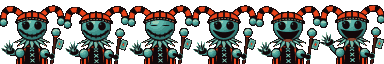
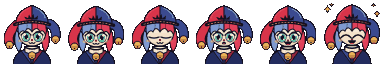
fix: jester model

diff --git a/scripts/make-gm.py b/scripts/make-gm.py
@@ -1,4 +1,4 @@
-"""Sprite Game Master: JESTER setengah badan (chibi), pixel art 64x64 per frame.
+"""Sprite Game Master: JESTER chibi setengah badan (mata anime terbuka, topi & rambut dua warna), pixel art 64x64 per frame.
 Digambar sebagai vektor (assets-src/gm.svg = frame 0) -> diturunkan ke 64x64 -> palet bersama untuk semua frame.
 Sheet: 6 frame -> idle0, idle1, blink, talk0, talk1, cheer. Juga membuat ikon pesan.
 Jalankan: python3 scripts/make-gm.py   (butuh playwright + pillow)"""
@@ -10,116 +10,108 @@ ROOT = os.path.dirname(os.path.dirname(os.path.abspath(__file__)))
 OUT = f'{ROOT}/public/ui'
 os.makedirs(OUT, exist_ok=True)
 F = 64          # ukuran frame (px)
-COLORS = 30     # jumlah warna palet
+COLORS = 48     # jumlah warna palet
 
-TEAL, TEAL_D, TEAL_L = '#3f9a92', '#27706c', '#8fe0d0'
-CREAM = '#f2dcae'
-RED, RED_D = '#e8431a', '#a82a10'
-BLK = '#12080a'
-
-
-def petals(cy=158):
-    """Kerah ruffle besar: kelopak teal yang menyebar dari leher."""
-    out = []
-    cx = 128
-    for k, ang in enumerate([-78, -52, -26, 0, 26, 52, 78]):
-        a = math.radians(ang)
-        tipx, tipy = cx + math.sin(a) * 74, cy + math.cos(a) * 34 + 6
-        b1, b2 = math.radians(ang - 21), math.radians(ang + 21)
-        p1 = (cx + math.sin(b1) * 30, cy + math.cos(b1) * 12 - 6)
-        p2 = (cx + math.sin(b2) * 30, cy + math.cos(b2) * 12 - 6)
-        mid = (cx + math.sin(a) * 50, cy + math.cos(a) * 22)
-        col = TEAL if k % 2 == 0 else '#4eb0a6'
-        out.append(f'<path d="M{p1[0]:.1f} {p1[1]:.1f} Q{mid[0]-math.cos(a)*10:.1f} {mid[1]+math.sin(a)*4:.1f} {tipx:.1f} {tipy:.1f} Q{mid[0]+math.cos(a)*10:.1f} {mid[1]-math.sin(a)*4:.1f} {p2[0]:.1f} {p2[1]:.1f} Z" fill="{col}" stroke="{BLK}" stroke-width="3.5" stroke-linejoin="round"/>')
-        out.append(f'<path d="M{(p1[0]+p2[0])/2:.1f} {(p1[1]+p2[1])/2:.1f} L{tipx*0.92+cx*0.08:.1f} {tipy*0.92+cy*0.08:.1f}" stroke="{CREAM}" stroke-width="2.4" stroke-linecap="round" opacity=".85"/>')
-    return ''.join(out)
+RED, RED_D, RED_L = '#d8344a', '#9c1f38', '#f06a78'
+BLU, BLU_D, BLU_L = '#3b4a8f', '#232c5e', '#7f93d6'
+HAIR_B, HAIR_R = '#7f9ad0', '#e0405a'
+SKIN, SKIN_S = '#fff1de', '#f3d9bd'
+GOLD, GOLD_D, GOLD_L = '#e0a43a', '#a8691e', '#ffe08a'
+BLK = '#14101f'
+IRIS, IRIS_L = '#2fa58a', '#9bf0d0'
 
 
-def hand(rot, spread):
-    fingers = ''.join(
-        f'<path d="M-5 0 Q{-3+a*0.05:.1f} -22 0 -{ln} Q{3+a*0.05:.1f} -22 5 0Z" fill="{BLK}" stroke="{TEAL_L}" stroke-width="1.6" stroke-linejoin="round" transform="rotate({a+rot*0})"/>'
-        for a, ln in [(-46 - spread, 30), (-22 - spread / 2, 38), (3 + spread / 3, 40), (28 + spread, 34)])
-    return (f'<ellipse cx="0" cy="4" rx="20" ry="15" fill="{BLK}" stroke="{TEAL_L}" stroke-width="1.8"/>'
-            f'<path d="M-16 8 Q-30 2 -34 -10 Q-26 -10 -16 -2Z" fill="{BLK}" stroke="{TEAL_L}" stroke-width="1.6" stroke-linejoin="round"/>'
-            + fingers)
+def bell(x, y, r=14, ph=0):
+    return (f'<circle cx="{x}" cy="{y+ph}" r="{r}" fill="{GOLD}" stroke="{BLK}" stroke-width="3.5"/>'
+            f'<path d="M{x-r*0.55:.1f} {y+ph-r*0.3:.1f} Q{x:.1f} {y+ph-r*0.9:.1f} {x+r*0.5:.1f} {y+ph-r*0.4:.1f}" stroke="{GOLD_L}" stroke-width="3" fill="none" stroke-linecap="round"/>'
+            f'<path d="M{x-r*0.9:.1f} {y+ph+r*0.15:.1f} L{x+r*0.9:.1f} {y+ph+r*0.15:.1f}" stroke="{GOLD_D}" stroke-width="2.6"/>'
+            f'<circle cx="{x}" cy="{y+ph+r*0.5:.1f}" r="2.6" fill="{BLK}"/>')
 
 
-def svg(bob=0, sway=0, blink=False, mouth='smile', wave=0, hand_lift=0, cheer=False):
-    horn_l = f'M92 78 C 58 34, 12 34, 14 {92+sway}'
-    horn_r = f'M164 78 C 198 30, 246 36, 244 {88-sway}'
-    eye_ry = 2 if blink else 17
+def sparkle(x, y, s, col=GOLD):
+    return f'<path d="M{x} {y-s} Q{x+s*0.18} {y-s*0.18} {x+s} {y} Q{x+s*0.18} {y+s*0.18} {x} {y+s} Q{x-s*0.18} {y+s*0.18} {x-s} {y} Q{x-s*0.18} {y-s*0.18} {x} {y-s}Z" fill="{col}" stroke="{BLK}" stroke-width="2.6" stroke-linejoin="round"/>'
+
+
+def eye(cx, cy, mode, flip=1):
+    """Mata anime besar & terbuka. mode: open | blink | happy"""
+    if mode == 'blink':
+        return f'<path d="M{cx-20} {cy+2} Q{cx} {cy+10} {cx+20} {cy+2}" stroke="{BLK}" stroke-width="5" fill="none" stroke-linecap="round"/>'
+    if mode == 'happy':
+        return f'<path d="M{cx-20} {cy+8} Q{cx} {cy-14} {cx+20} {cy+8}" stroke="{BLK}" stroke-width="6" fill="none" stroke-linecap="round"/>'
+    return (f'<ellipse cx="{cx}" cy="{cy}" rx="17" ry="21" fill="#fff" stroke="{BLK}" stroke-width="2.4"/>'
+            f'<ellipse cx="{cx+1*flip}" cy="{cy+3}" rx="13" ry="17" fill="{IRIS}"/>'
+            f'<ellipse cx="{cx+1*flip}" cy="{cy+9}" rx="12" ry="10" fill="{IRIS_L}" opacity=".7"/>'
+            f'<ellipse cx="{cx+1*flip}" cy="{cy+2}" rx="7" ry="10" fill="{BLK}"/>'
+            f'<circle cx="{cx-6*flip}" cy="{cy-8}" r="5.4" fill="#fff"/><circle cx="{cx+7*flip}" cy="{cy+9}" r="2.8" fill="#fff"/>'
+            f'<path d="M{cx-20} {cy-6} Q{cx} {cy-28} {cx+20} {cy-6}" stroke="{BLK}" stroke-width="5" fill="none" stroke-linecap="round"/>')
+
+
+def svg(bob=0, sway=0, eyes='open', mouth='smile', cheer=False, spark=0):
+    s = sway
     if mouth == 'smile':
-        mouth_svg = f'<path d="M80 130 Q128 176 176 130" fill="none" stroke="{BLK}" stroke-width="8" stroke-linecap="round"/>'
-        for t in (0.12, 0.3, 0.5, 0.7, 0.88):
-            x = 80 + 96 * t
-            y = 130 + (1 - (2 * t - 1) ** 2) * 23  # perkiraan titik kurva
-            mouth_svg += f'<path d="M{x:.1f} {y-6:.1f} L{x:.1f} {y+7:.1f}" stroke="{BLK}" stroke-width="4" stroke-linecap="round"/>'
+        m = f'<path d="M116 170 Q122 177 128 170 Q134 177 140 170" stroke="{BLK}" stroke-width="4.5" fill="none" stroke-linecap="round" stroke-linejoin="round"/>'
     elif mouth == 'talk0':
-        mouth_svg = f'<path d="M86 132 Q128 188 170 132 Q128 150 86 132Z" fill="{BLK}" stroke="{BLK}" stroke-width="4" stroke-linejoin="round"/>'
+        m = f'<ellipse cx="128" cy="172" rx="8" ry="6" fill="{BLK}"/><ellipse cx="128" cy="175" rx="4.5" ry="2.6" fill="#e8607a"/>'
     else:
-        mouth_svg = (f'<path d="M84 130 Q128 204 172 130 Q128 146 84 130Z" fill="{BLK}" stroke="{BLK}" stroke-width="4" stroke-linejoin="round"/>'
-                     f'<path d="M108 168 Q128 182 148 168 Q128 160 108 168Z" fill="#a82a40"/>')
-    hx, hy = (34, 168 - hand_lift) if cheer else (40, 200 - hand_lift)
-    hrot = (-12 + wave) if cheer else (-6 + wave)
-    sp = 8 if cheer else 0
+        m = f'<path d="M114 166 Q128 190 142 166 Z" fill="{BLK}" stroke="{BLK}" stroke-width="3.5" stroke-linejoin="round"/><path d="M121 177 Q128 172 135 177 Q128 184 121 177Z" fill="#e8607a"/>'
+    sp = ''
+    if cheer or spark:
+        sp = sparkle(30, 46 - s, 15) + sparkle(46, 22, 8) + sparkle(228, 52 + s, 13) + sparkle(214, 24, 8)
     return f'''<svg xmlns="http://www.w3.org/2000/svg" viewBox="0 0 256 256" width="512" height="512">
 <defs>
-<clipPath id="tor"><path d="M66 260 C 66 206, 92 178, 128 176 C 164 178, 190 206, 190 260Z"/></clipPath>
-<radialGradient id="hl" cx="35%" cy="30%" r="70%"><stop offset="0" stop-color="{TEAL_L}"/><stop offset=".55" stop-color="{TEAL}"/><stop offset="1" stop-color="{TEAL_D}"/></radialGradient>
+<linearGradient id="skin" x1="0" y1="0" x2="0" y2="1"><stop offset="0" stop-color="{SKIN}"/><stop offset="1" stop-color="{SKIN_S}"/></linearGradient>
 </defs>
 <g transform="translate(0 {bob})">
-<!-- kartu melayang -->
-<g transform="translate(238 176) rotate(20)"><rect x="-13" y="-19" width="26" height="38" rx="3" fill="{TEAL}" stroke="{BLK}" stroke-width="3"/><rect x="-9" y="-15" width="18" height="30" rx="2" fill="none" stroke="{CREAM}" stroke-width="1.6"/><path d="M0 -7 L5 0 L0 7 L-5 0Z" fill="{RED}"/></g>
-<!-- tongkat -->
-<path d="M206 262 L222 144" stroke="{BLK}" stroke-width="13" stroke-linecap="round"/><path d="M206 262 L222 144" stroke="#4a2a20" stroke-width="7" stroke-linecap="round"/>
-<circle cx="224" cy="130" r="17" fill="url(#hl)" stroke="{BLK}" stroke-width="4"/><path d="M212 125 Q224 114 236 125" stroke="{CREAM}" stroke-width="3" fill="none" stroke-linecap="round"/><rect x="215" y="143" width="17" height="7" rx="2" fill="{RED}" stroke="{BLK}" stroke-width="2.5"/>
-<!-- badan: rompi belang merah-hitam + jahitan X -->
-<g clip-path="url(#tor)">
-<rect x="50" y="170" width="160" height="100" fill="{RED}"/>
-<path d="M76 176v100M92 176v100M164 176v100M180 176v100" stroke="{BLK}" stroke-width="8"/>
-<path d="M104 178 L152 178 L162 270 L94 270Z" fill="{BLK}"/>
-<path d="M62 190 Q 90 178 118 186" stroke="{RED_D}" stroke-width="6" fill="none"/>
-</g>
-<path d="M66 262 C 66 206, 92 178, 128 176 C 164 178, 190 206, 190 262" fill="none" stroke="{BLK}" stroke-width="4"/>
-<g stroke="{TEAL_L}" stroke-width="3.4" stroke-linecap="round"><path d="M121 192l14 12M135 192l-14 12"/><path d="M122 214l14 12M136 214l-14 12"/><path d="M123 236l14 12M137 236l-14 12"/></g>
-<!-- lengan kiri (tangan menyapa) -->
-<path d="M80 212 Q 60 214 {hx+8} {hy+14}" stroke="{BLK}" stroke-width="20" stroke-linecap="round" fill="none"/>
-<path d="M80 212 Q 60 214 {hx+8} {hy+14}" stroke="{TEAL_D}" stroke-width="13" stroke-linecap="round" fill="none"/>
-<g transform="translate({hx} {hy}) rotate({hrot})">{hand(0, sp)}</g>
-<circle cx="80" cy="212" r="19" fill="url(#hl)" stroke="{BLK}" stroke-width="4"/><path d="M68 206 Q78 197 90 200" stroke="{CREAM}" stroke-width="3.4" fill="none" stroke-linecap="round"/>
-<!-- lengan kanan memegang tongkat -->
-<circle cx="178" cy="214" r="19" fill="url(#hl)" stroke="{BLK}" stroke-width="4"/><path d="M166 207 Q176 198 188 201" stroke="{CREAM}" stroke-width="3.2" fill="none" stroke-linecap="round"/>
-<circle cx="208" cy="226" r="11" fill="{BLK}" stroke="{TEAL_L}" stroke-width="1.8"/><path d="M184 218 L202 224" stroke="{BLK}" stroke-width="12" stroke-linecap="round"/>
-<!-- kerah ruffle -->
-<ellipse cx="128" cy="160" rx="38" ry="13" fill="{TEAL_D}" stroke="{BLK}" stroke-width="3.5"/>
-{petals()}
-<ellipse cx="128" cy="155" rx="24" ry="8" fill="{BLK}" opacity=".55"/>
-<g transform="translate(0 -10)">
-<!-- tanduk topi -->
-<path d="{horn_l}" stroke="{BLK}" stroke-width="27" stroke-linecap="round" fill="none"/><path d="{horn_l}" stroke="{RED}" stroke-width="19" stroke-linecap="round" fill="none"/><path d="{horn_l}" stroke="{BLK}" stroke-width="19" stroke-linecap="butt" fill="none" stroke-dasharray="16 22" stroke-dashoffset="2"/>
-<path d="{horn_r}" stroke="{BLK}" stroke-width="27" stroke-linecap="round" fill="none"/><path d="{horn_r}" stroke="{RED}" stroke-width="19" stroke-linecap="round" fill="none"/><path d="{horn_r}" stroke="{BLK}" stroke-width="19" stroke-linecap="butt" fill="none" stroke-dasharray="16 22" stroke-dashoffset="8"/>
-<g><circle cx="14" cy="{100+sway}" r="15" fill="url(#hl)" stroke="{BLK}" stroke-width="4"/><circle cx="244" cy="{96-sway}" r="15" fill="url(#hl)" stroke="{BLK}" stroke-width="4"/><path d="M6 {96+sway} Q14 {88+sway} 22 {96+sway}M236 {92-sway} Q244 {84-sway} 252 {92-sway}" stroke="{CREAM}" stroke-width="3" fill="none" stroke-linecap="round"/></g>
-<!-- kepala/topeng -->
-<ellipse cx="128" cy="116" rx="58" ry="55" fill="url(#hl)" stroke="{BLK}" stroke-width="4.5"/>
-<path d="M170 76 Q190 116 168 160" stroke="{TEAL_D}" stroke-width="10" fill="none" opacity=".45" stroke-linecap="round"/>
-<path d="M90 70 Q96 92 88 108 M168 74 Q164 90 172 100" stroke="{BLK}" stroke-width="2.6" fill="none" stroke-linecap="round"/>
-<ellipse cx="104" cy="112" rx="15" ry="{eye_ry}" fill="{BLK}"/><ellipse cx="152" cy="112" rx="15" ry="{eye_ry}" fill="{BLK}"/>
-{'' if blink else f'<circle cx="98" cy="104" r="3.4" fill="#2f6b68"/><circle cx="146" cy="104" r="3.4" fill="#2f6b68"/>'}
-{mouth_svg}
-<!-- topi: kubah + pita -->
-<path d="M68 98 C 60 44, 196 44, 188 98 Q128 74 68 98Z" fill="{RED}" stroke="{BLK}" stroke-width="4.5" stroke-linejoin="round"/>
-<path d="M104 60 Q100 82 106 90M128 54 L128 82M152 60 Q156 82 150 90" stroke="{BLK}" stroke-width="6.5" fill="none" stroke-linecap="round"/>
-<path d="M66 98 Q128 70 190 98" stroke="{BLK}" stroke-width="13" fill="none" stroke-linecap="round"/><path d="M72 97 Q128 72 184 97" stroke="{CREAM}" stroke-width="2.4" fill="none" stroke-dasharray="5 7" stroke-linecap="round"/>
-</g></g></svg>'''
+<!-- bahu + jaket -->
+<path d="M52 262 C 54 214, 84 196, 128 194 C 172 196, 202 214, 204 262Z" fill="{BLU_D}" stroke="{BLK}" stroke-width="4.5"/>
+<path d="M84 202 L128 262 L110 200Z" fill="{BLU}" stroke="{BLK}" stroke-width="3.5" stroke-linejoin="round"/>
+<path d="M172 202 L128 262 L146 200Z" fill="{RED_D}" stroke="{BLK}" stroke-width="3.5" stroke-linejoin="round"/>
+<!-- turtleneck krem + choker -->
+<path d="M100 186 L100 208 Q128 222 156 208 L156 186Z" fill="#f3ead6" stroke="{BLK}" stroke-width="4"/>
+<path d="M108 192 L108 206 M118 194 L118 210 M128 195 L128 212 M138 194 L138 210 M148 192 L148 206" stroke="#d9cdb0" stroke-width="2.6"/>
+<path d="M102 190 Q128 202 154 190" stroke="{BLK}" stroke-width="6" fill="none" stroke-linecap="round"/>
+{bell(128, 222, 15, bob and 2 or 0)}
+<!-- tanduk topi (belakang kepala) -->
+<path d="M66 100 C 40 120, 28 150, {38+s} {172+s}" stroke="{BLK}" stroke-width="40" stroke-linecap="round" fill="none"/>
+<path d="M66 100 C 40 120, 28 150, {38+s} {172+s}" stroke="{RED}" stroke-width="32" stroke-linecap="round" fill="none"/>
+<path d="M190 94 C 214 96, 226 120, {222-s} {150+s}" stroke="{BLK}" stroke-width="40" stroke-linecap="round" fill="none"/>
+<path d="M190 94 C 214 96, 226 120, {222-s} {150+s}" stroke="{BLU}" stroke-width="32" stroke-linecap="round" fill="none"/>
+{bell(38+s, 180+s, 15)}{bell(222-s, 158+s, 15)}
+<!-- rambut belakang (samping) -->
+<path d="M70 110 C 52 150, 58 190, 76 206 C 88 190, 92 160, 90 118Z" fill="{HAIR_B}" stroke="{BLK}" stroke-width="4" stroke-linejoin="round"/>
+<path d="M186 110 C 204 150, 198 190, 180 206 C 168 190, 164 160, 166 118Z" fill="{HAIR_R}" stroke="{BLK}" stroke-width="4" stroke-linejoin="round"/>
+<!-- wajah -->
+<ellipse cx="128" cy="134" rx="54" ry="50" fill="url(#skin)" stroke="{BLK}" stroke-width="4.5"/>
+<path d="M76 134 L66 122 L80 126Z M180 134 L190 122 L176 126Z" fill="{SKIN}" stroke="{BLK}" stroke-width="3" stroke-linejoin="round"/>
+<!-- poni dua warna -->
+<path d="M72 112 C 70 86, 96 74, 128 74 L128 128 C 118 112, 108 108, 100 128 C 94 120, 84 122, 76 138 C 72 128, 72 120, 72 112Z" fill="{HAIR_B}" stroke="{BLK}" stroke-width="4" stroke-linejoin="round"/>
+<path d="M184 112 C 186 86, 160 74, 128 74 L128 128 C 140 110, 152 110, 160 128 C 168 118, 176 124, 182 140 C 186 130, 186 120, 184 112Z" fill="{HAIR_R}" stroke="{BLK}" stroke-width="4" stroke-linejoin="round"/>
+<path d="M104 84 Q112 100 106 116 M152 84 Q146 100 152 116" stroke="{BLK}" stroke-width="2.4" fill="none" stroke-linecap="round" opacity=".6"/>
+<!-- mata anime -->
+{eye(104, 146, eyes)}{eye(152, 146, eyes, -1)}
+<!-- pipi, hidung, mulut -->
+<ellipse cx="82" cy="164" rx="9" ry="5.5" fill="#f58a98" opacity=".75"/><ellipse cx="174" cy="164" rx="9" ry="5.5" fill="#f58a98" opacity=".75"/>
+<circle cx="128" cy="160" r="3.4" fill="{RED}" stroke="{BLK}" stroke-width="1.6"/>
+{m}
+<!-- topi: kubah dua warna + pita -->
+<path d="M64 98 C 60 40, 128 22, 128 22 L128 92 Q96 82 64 98Z" fill="{RED}" stroke="{BLK}" stroke-width="4.5" stroke-linejoin="round"/>
+<path d="M192 98 C 196 40, 128 22, 128 22 L128 92 Q160 82 192 98Z" fill="{BLU}" stroke="{BLK}" stroke-width="4.5" stroke-linejoin="round"/>
+<path d="M76 70 C 80 52, 96 40, 112 34" stroke="{RED_L}" stroke-width="4" fill="none" stroke-linecap="round"/>
+<path d="M180 70 C 176 52, 160 40, 144 34" stroke="{BLU_L}" stroke-width="4" fill="none" stroke-linecap="round"/>
+<path d="M58 98 Q128 76 198 98" stroke="{BLK}" stroke-width="14" fill="none" stroke-linecap="round"/>
+<path d="M64 97 Q128 77 192 97" stroke="{GOLD}" stroke-width="2.6" fill="none" stroke-dasharray="6 7" stroke-linecap="round"/>
+<path d="M104 78 L96 66 L112 72 L116 58 L124 72 L134 56 L138 74 L152 62 L150 78Z" fill="{BLK}"/>
+{sp}
+</g></svg>'''
 
 
 FRAMES = [
-    dict(),                                  # idle0
-    dict(bob=3, sway=5, wave=5),             # idle1 (naik-turun, bel bergoyang, tangan bergoyang)
-    dict(blink=True),                        # blink
-    dict(mouth='talk0', wave=-3),            # talk0
-    dict(mouth='talk1', bob=2, wave=3),      # talk1
-    dict(mouth='talk1', cheer=True, bob=-2, sway=7, wave=-8),  # cheer (tangan terangkat)
+    dict(),                                                   # idle0
+    dict(bob=3, sway=4),                                      # idle1 (naik-turun, lonceng bergoyang)
+    dict(eyes='blink'),                                       # blink
+    dict(mouth='talk0', bob=1),                               # talk0
+    dict(mouth='talk1', bob=2, sway=2),                       # talk1
+    dict(mouth='talk1', eyes='happy', cheer=True, bob=-3, sway=6),  # cheer (mata senang + kilau)
 ]
 
 with sync_playwright() as p:
